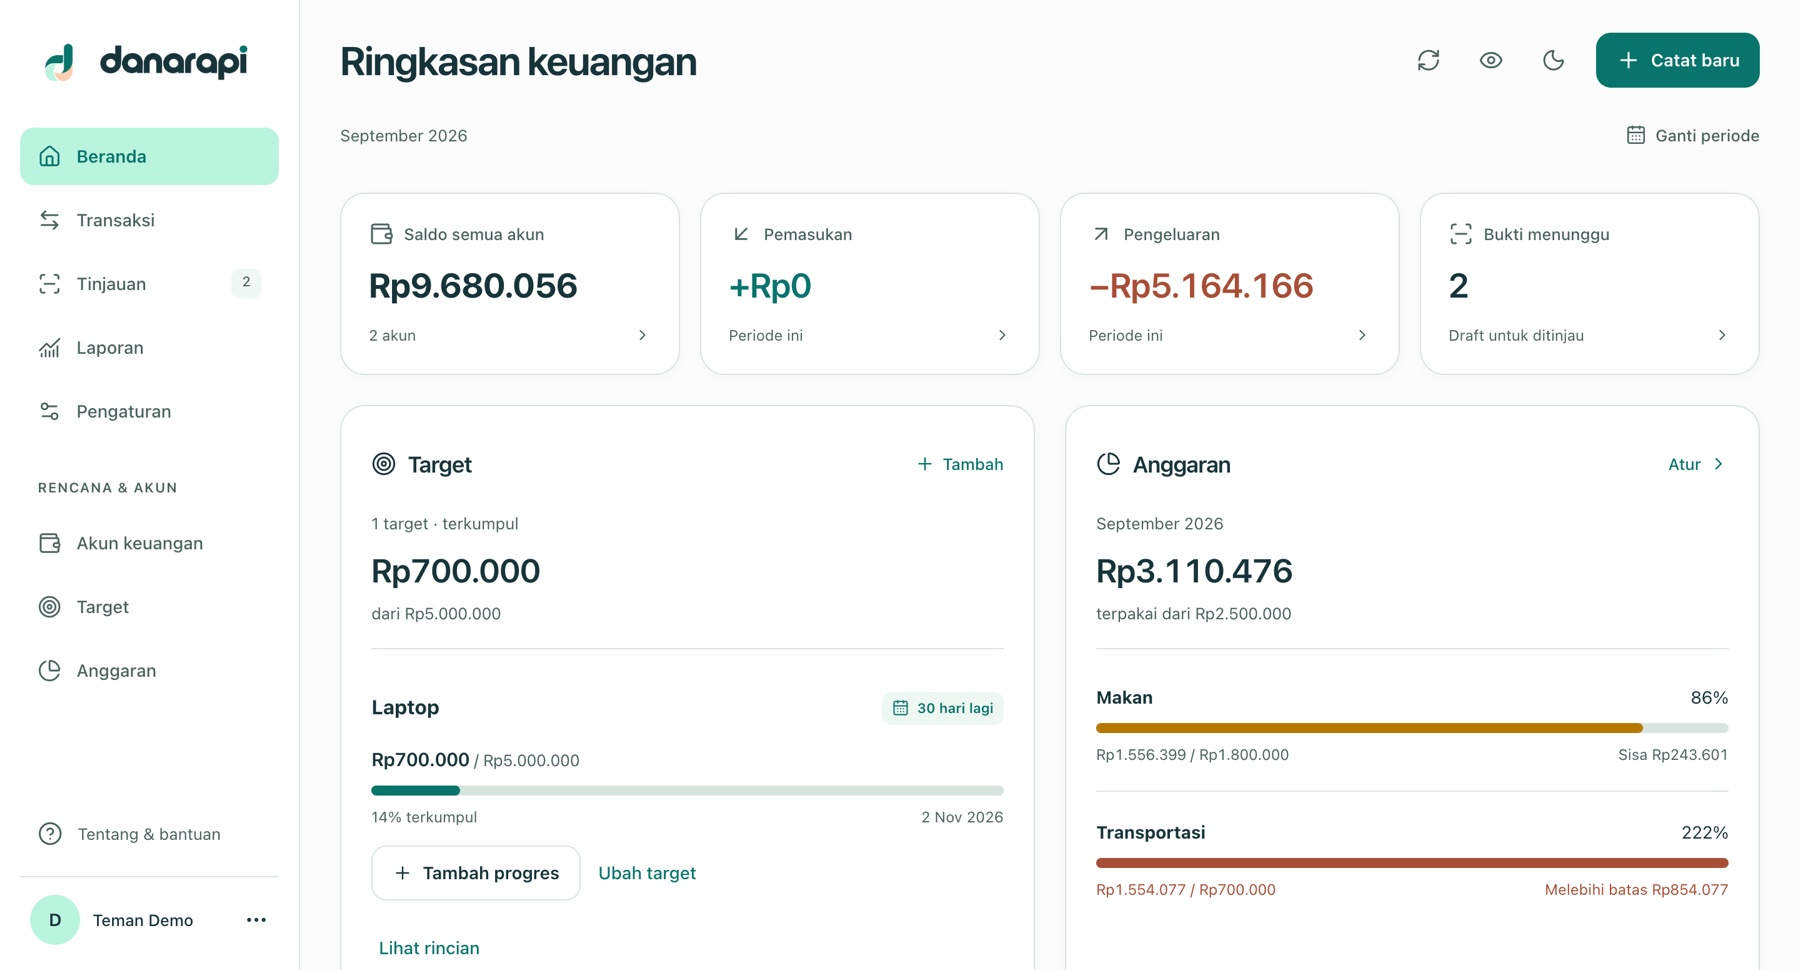
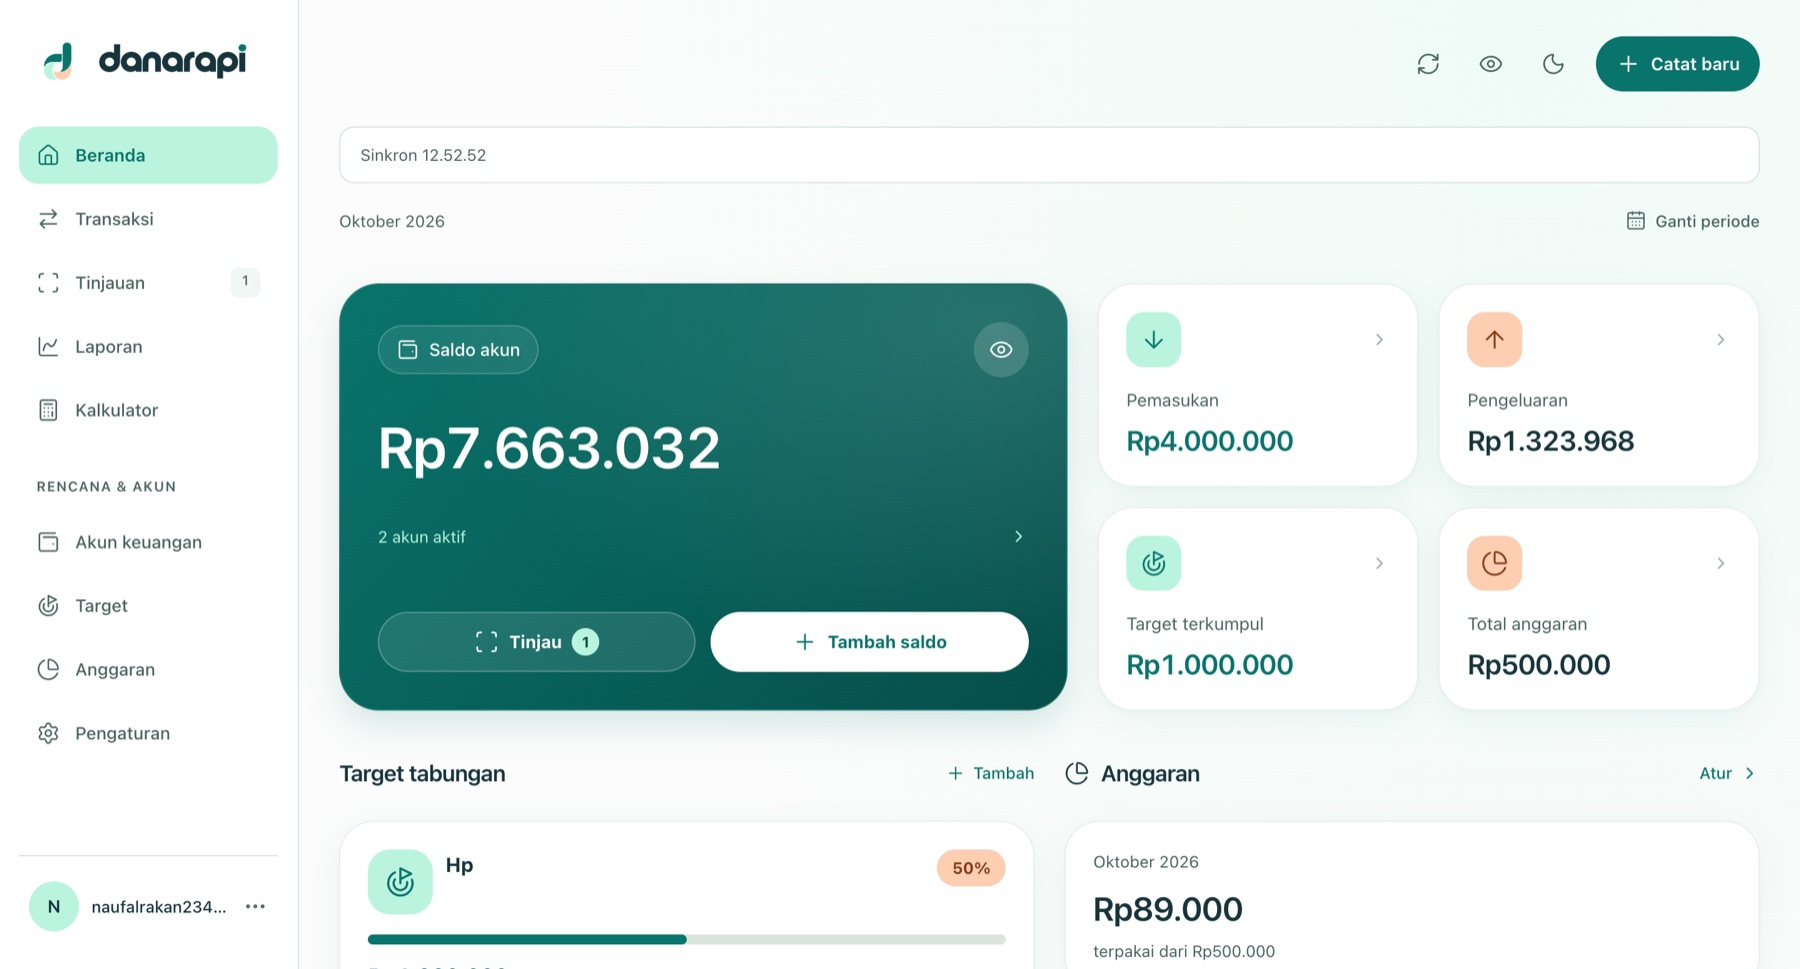
Refresh Danarapi screenshots and hide Lunemira source link

diff --git a/src/App.vue b/src/App.vue
@@ -179,6 +179,7 @@ const copy = {
           featured: false,
           demo: "",
           source: "https://github.com/rakannaufal/Lunemira",
+          sourceVisible: false,
         },
         {
           title: "Danarapi — Personal Finance, Web & iOS",
@@ -191,9 +192,9 @@ const copy = {
           contribution:
             "Built the web and native iOS interfaces, shared data contracts, Supabase ledger integration, and receipt review and split-bill flows.",
           image: "/project/danarapi-web.jpg",
-          imageAlt: "Danarapi web dashboard showing balances, savings goals, and budgets",
+          imageAlt: "Danarapi web dashboard showing account balance, income, expenses, savings goals, and budgets",
           mobileImage: "/project/danarapi-ios.jpg",
-          mobileImageAlt: "Danarapi native iOS dashboard with income, expenses, and savings goals",
+          mobileImageAlt: "Danarapi native iOS dashboard with account balance, income, expenses, savings goals, and receipt review",
           featured: true,
           demo: "https://danarapi.vercel.app/",
           source: "https://github.com/rakannaufal/danarapi",
@@ -466,6 +467,7 @@ const copy = {
           featured: false,
           demo: "",
           source: "https://github.com/rakannaufal/Lunemira",
+          sourceVisible: false,
         },
         {
           title: "Danarapi — Keuangan Pribadi, Web & iOS",
@@ -478,9 +480,9 @@ const copy = {
           contribution:
             "Membangun antarmuka web dan iOS native, kontrak data bersama, integrasi ledger Supabase, serta alur tinjauan struk dan split bill.",
           image: "/project/danarapi-web.jpg",
-          imageAlt: "Dashboard web Danarapi dengan saldo, target tabungan, dan anggaran",
+          imageAlt: "Dashboard web Danarapi dengan saldo akun, pemasukan, pengeluaran, target tabungan, dan anggaran",
           mobileImage: "/project/danarapi-ios.jpg",
-          mobileImageAlt: "Dashboard iOS native Danarapi dengan pemasukan, pengeluaran, dan target tabungan",
+          mobileImageAlt: "Dashboard iOS native Danarapi dengan saldo akun, pemasukan, pengeluaran, target tabungan, dan tinjauan struk",
           featured: true,
           demo: "https://danarapi.vercel.app/",
           source: "https://github.com/rakannaufal/danarapi",
@@ -1084,7 +1086,7 @@ watch(language, (nextLanguage) => {
                     loading="lazy"
                     decoding="async"
                     width="1800"
-                    height="970"
+                    height="969"
                   />
                 </div>
                 <div class="project-phone-frame">
@@ -1093,8 +1095,8 @@ watch(language, (nextLanguage) => {
                     :alt="project.mobileImageAlt"
                     loading="lazy"
                     decoding="async"
-                    width="581"
-                    height="1200"
+                    width="780"
+                    height="1688"
                   />
                 </div>
                 <span class="project-device-caption" aria-hidden="true">Web + iOS</span>
